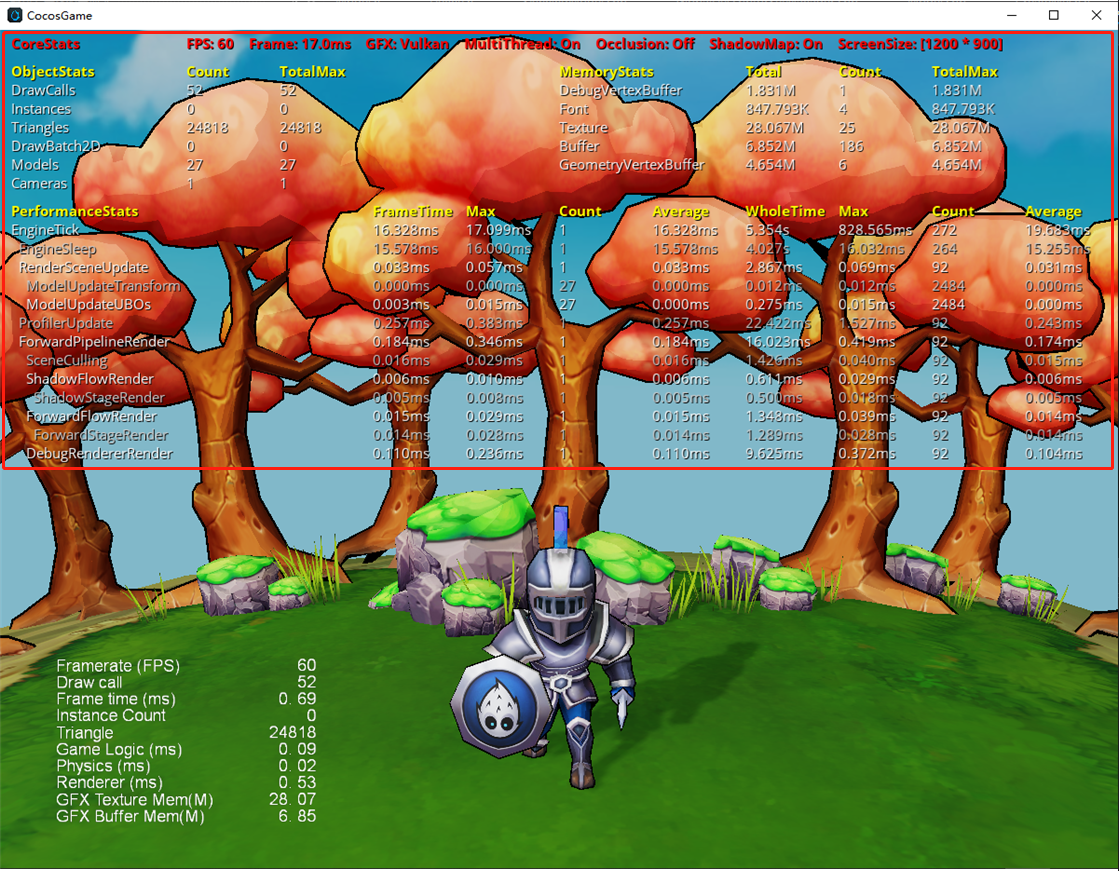
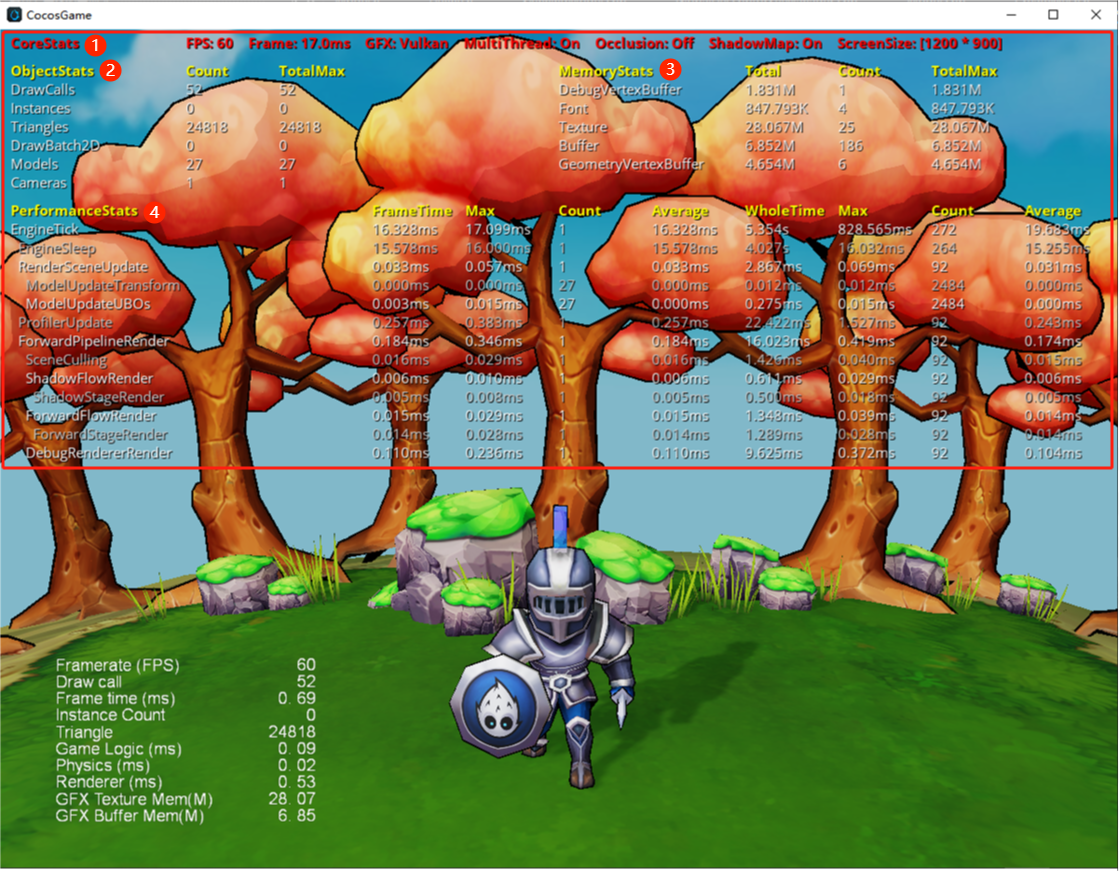
add ordered lists

diff --git a/zh/advanced-topics/profiler.md b/zh/advanced-topics/profiler.md
@@ -4,7 +4,7 @@
   ![profiler](native-profiler/profiler.png)
 
 - 与左下角旧版的 `Profiler` 不同，新版的 `Profiler` 提供更详细的游戏性能与内存统计数据，并支持扩展，开发者可自由添加关心的性能及内存数据，默认的数据如下：
-  - 核心数据统计 `CoreStats` ，包括：
+1. 核心数据统计 `CoreStats` ，包括：
     - 帧数
     - 每帧渲染时间
     - GFX 后端
@@ -13,7 +13,7 @@
     - 是否开启阴影贴图
     - 屏幕分辨率
 
-  - 对象个数统计 `ObjectStats` ，包括：
+2. 对象个数统计 `ObjectStats` ，包括：
     - 渲染调用次数
     - 实例化个数
     - 三角面个数
@@ -21,14 +21,14 @@
     - 渲染模型个数
     - 摄像机个数
 
-  - 内存使用统计 `MemoryStats` ，包括：
+3. 内存使用统计 `MemoryStats` ，包括：
     - DebugRenderer的顶点缓冲区大小
     - 原生字体内存大小
     - 贴图占用的显存
     - Buffer占用的显存
     - GeometryRenderer顶点缓冲区大小
 
-  - 性能数据统计 `PerformanceStats` ，显示逻辑线程调用堆栈，包含每个剖析代码段的：
+4. 性能数据统计 `PerformanceStats` ，显示逻辑线程调用堆栈，包含每个剖析代码段的：
     - 每帧执行总时间
     - 每帧单次执行最大时间
     - 每帧执行总次数
